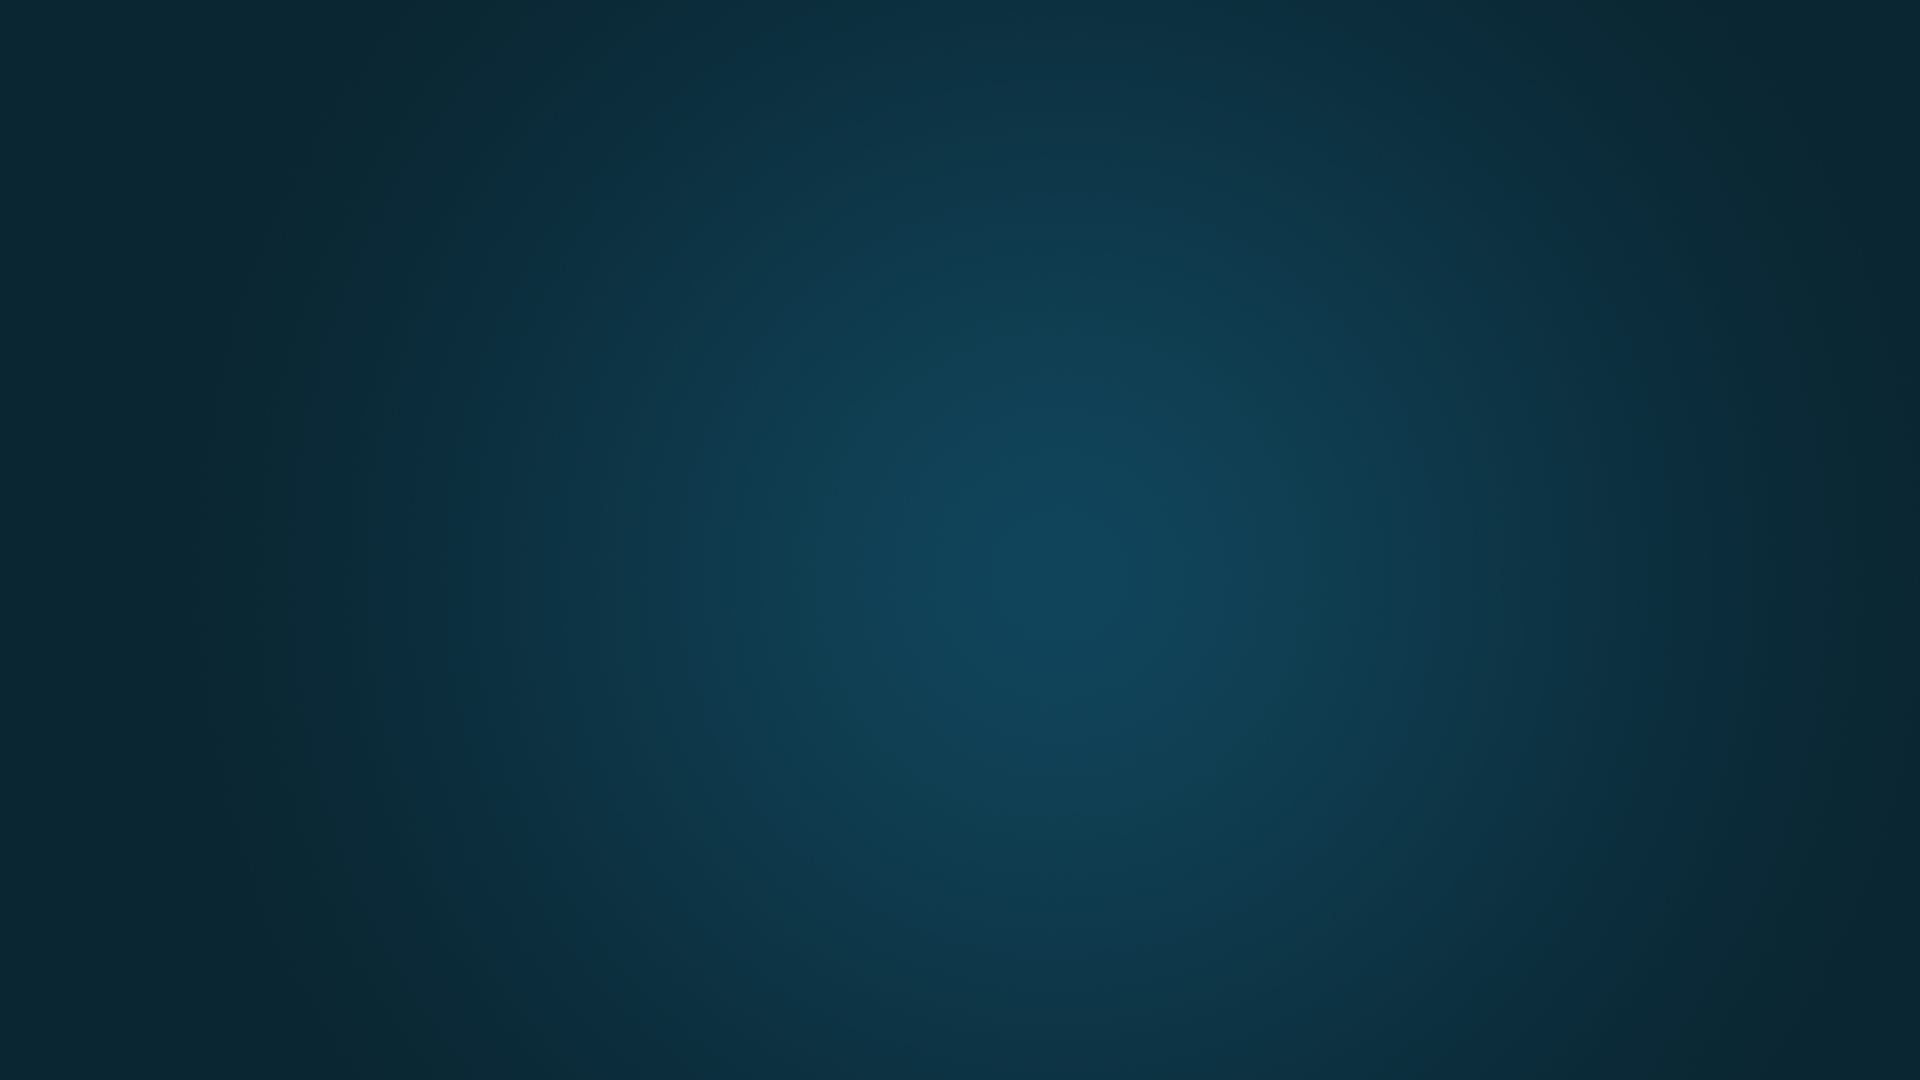
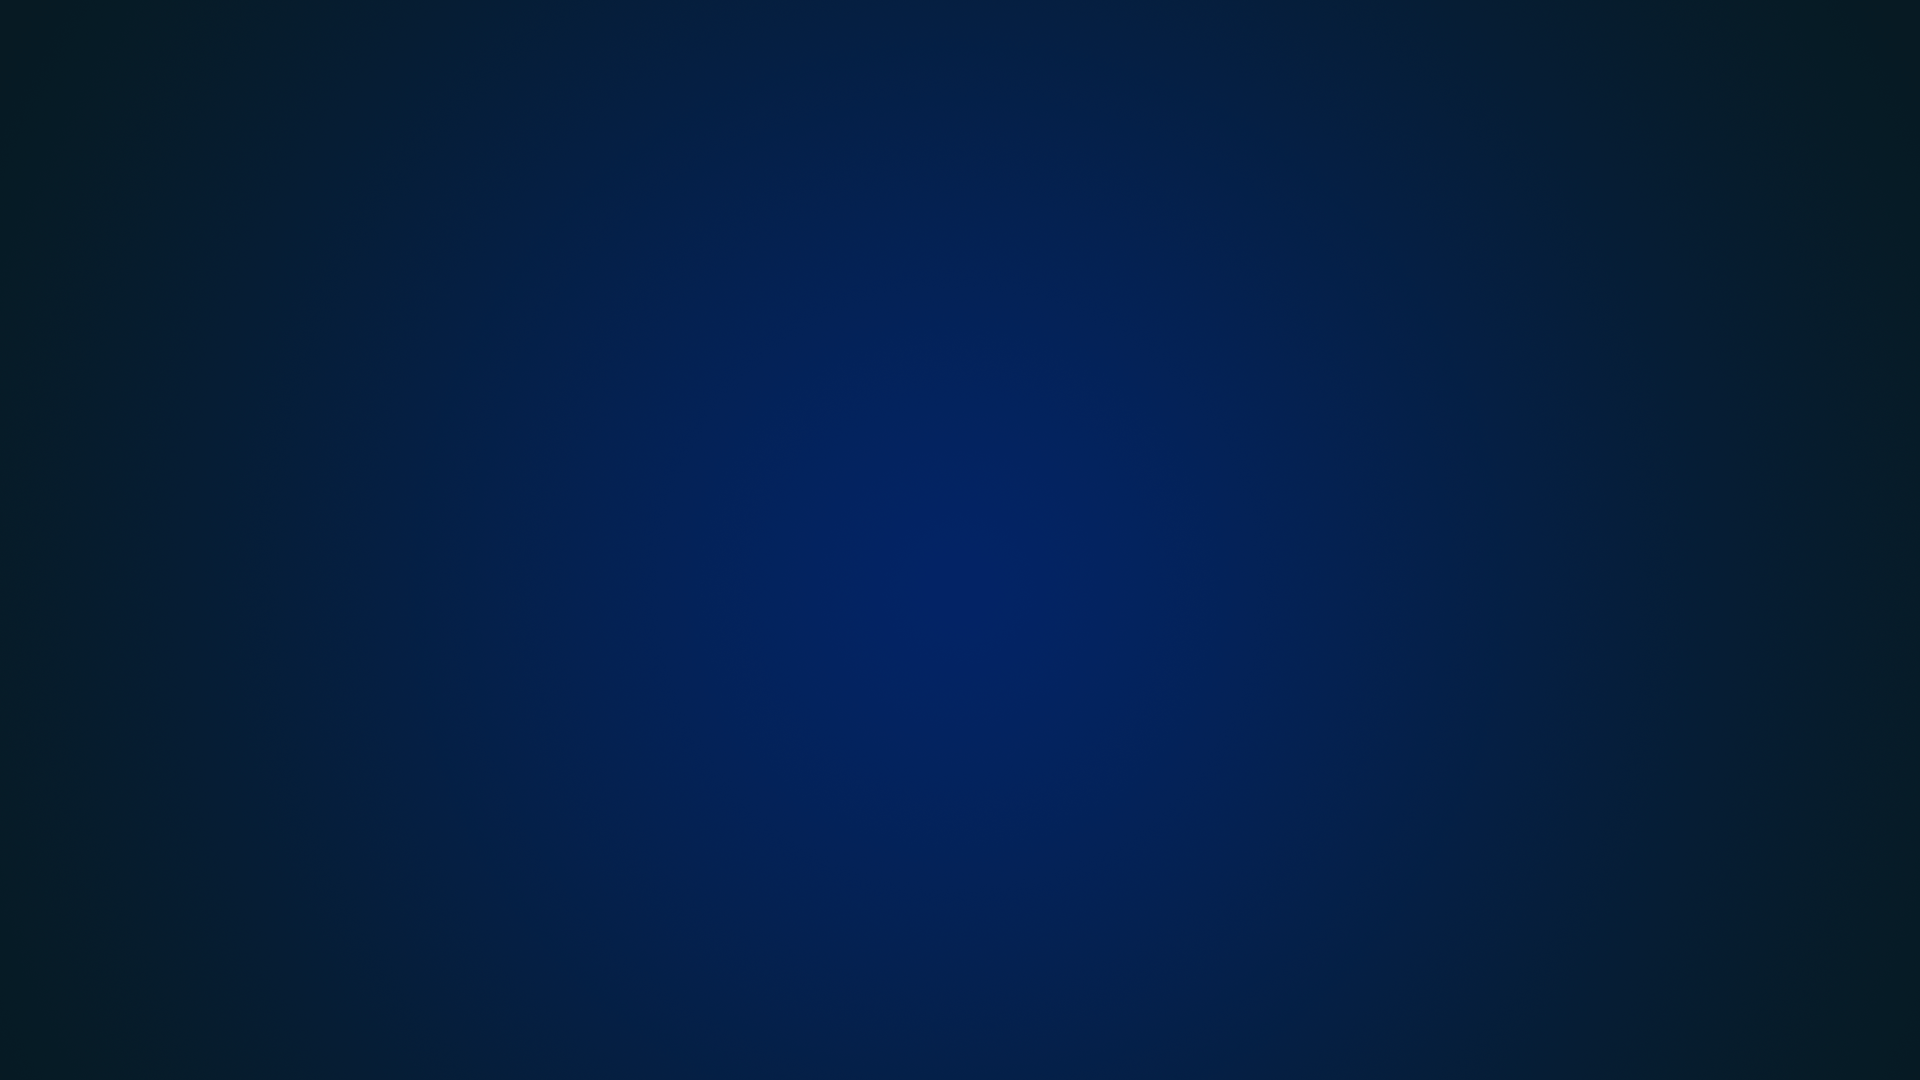
色変更

Changed region(s): [[0.375, 0.1833, 0.75, 0.8556]]

diff --git a/css/style.css b/css/style.css
@@ -14,8 +14,7 @@ body {
 
 nav {
   width: 100%;
-  background-color: #26d0c9;
-  color: #fff;
+  color: #E8AB15;
   overflow: hidden;
   position: fixed;
   text-align: center;
@@ -27,7 +26,10 @@ nav {
   border-radius: 90px;
   font-size: 30px;
   float:left;
-  padding: 20px 20px;
+  margin: 10px 10px;
+  border: 1px solid #B91C22;
+  margin-left: 30px;
+  background-color: #000;
 }
 
 .img {
@@ -36,25 +38,32 @@ nav {
   text-align: center;
 }
 
+nav ul {
+margin-right: 20px;
+}
+
 nav li {
-  margin-top: 10px;
-  padding: 20px 20px;
-  display: block;
+  margin-top: 15px;
+  margin-right: 10px;
   float: right;
   list-style-type: none;
   border-radius: 90px;
-  text-decoration: underline;
+  border: 1px solid #B91C22;
+  background-color: #000;
 }
 
 nav a {
+  margin: auto;
+  padding: 15px 15px;
   text-decoration: none;
-  color: #ffffff;
+  color: #B91C22;
   display: block;
   transition: 1s;
 }
 
 nav a:hover {
-  background: #ffffff;
+  border-radius: 90px;
+  background: #B91C22;
   color: #000000;
 }
 
@@ -65,24 +74,6 @@ nav a:hover {
   height: 100vh;
 }
 
-.vision {
-  text-align: center;
-  font-size: 200px;
-  color: #FFFFFF;
-  height: 50vh;
-  padding-top: 100px;
-  text-shadow: 2px 2px 1px #000, -2px 2px 1px #000, 2px -2px 1px #000, -2px -2px 1px #000;
-  animation: passing_7595 10s linear infinite;
-  transform-origin: 50% 50%;
-}
-
-
-@keyframes passing_7595 {
-  0% { transform:translateX(-50%); opacity:0 }
-  25% { transform:translateX(0%); opacity:1 }
-  50% { transform:translateX(50%); opacity:0 }
-  100% { transform:translateX(50%); opacity:0 }
-}
 
 .AmI {
   color:#FFF;
@@ -97,7 +88,7 @@ nav a:hover {
   text-align: center;
   font-size: 50px;
   margin-bottom: 20%;
-  text-shadow: 2px 2px 1px #00FFFF, -2px 2px 1px #00FFFF, 2px -2px 1px #00FFFF, -2px -2px 1px #00FFFF;
+  text-shadow: 2px 2px 1px #26d0c9, -2px 2px 1px #26d0c9, 2px -2px 1px #26d0c9, -2px -2px 1px #26d0c9;
 }
 
 .AmI li {
@@ -109,7 +100,7 @@ nav a:hover {
   left: 10%;
   right: auto;
   text-align: center;
-  background-color: #00FFFF;
+  background-color: #26d0c9;
   list-style-type: none;
 }
 
@@ -148,7 +139,12 @@ nav a:hover {
   padding-top: 7%;
   text-align: center;
   font-size: 50px;
-  text-shadow: 2px 2px 1px #FF0000, -2px 2px 1px #FF0000, 2px -2px 1px #FF0000, -2px -2px 1px #FF0000;
+  text-shadow: 2px 2px 1px #B91C22, -2px 2px 1px #B91C22, 2px -2px 1px #B91C22, -2px -2px 1px #B91C22;
+}
+
+.Web li:hover{
+  background-color:
+  text-shadow: 2px 2px 1px #B91C22, -2px 2px 1px #B91C22, 2px -2px 1px #B91C22, -2px -2px 1px #B91C22;
 }
 
 .float {
@@ -164,9 +160,10 @@ nav a:hover {
 }
 
 .Web a{
-  color: #FFF;
+  padding: 50px 50px;
+  color: #000;
   font-size: 20px;
-  text-shadow: 2px 2px 1px #FF0000, -2px 2px 1px #FF0000, 2px -2px 1px #FF0000, -2px -2px 1px #FF0000;
+  text-shadow: 2px 2px 1px #B91C22, -2px 2px 1px #B91C22, 2px -2px 1px #B91C22, -2px -2px 1px #B91C22;
 }
 
 .Web li {
@@ -180,7 +177,14 @@ nav a:hover {
   border-radius: 90px;
   border-color: #000;
   float: left;
+  border: 2px solid #000;
+}
+
+.Web li:hover{
+  border-radius: 90px;
+  background: #B91C22;
   color: #000;
+  opacity: 0.5;
 }
 
 .Youtube {
@@ -220,6 +224,7 @@ nav a:hover {
 .Contact p{
   text-align: center;
   font-size: 50px;
+  text-shadow: 2px 2px 1px #26d0c9, -2px 2px 1px #26d0c9, 2px -2px 1px #26d0c9, -2px -2px 1px #26d0c9;
 }
 
 .Contact li {
@@ -231,13 +236,21 @@ nav a:hover {
   height: 200px;
   color: #00FFFF;
   background-color: #000;
-  border: 1px solid #FFF;
+  border: 1px solid #26d0c9;
   font-size: 100px;
+}
+
+.Contact li:hover{
+  background-color: #26d0c9;
 }
 
 .Contact i {
   padding-top: 20%;
   color: #00FFFF;
+}
+
+.Contact i:hover{
+  color: #000;
 }
 
 
@@ -248,5 +261,4 @@ footer {
   line-height: 10px;
   color: #000;
   height: 10px;
-  font-family: 'Open Sans Condensed', sans-serif;
 }

diff --git a/index.html b/index.html
@@ -6,6 +6,7 @@
   <link rel = "shortcut icon" href="img/logo.ico">
   <link rel = "stylesheet" href = "css/style.css">
   <link rel = "stylesheet" href="css/font-awesome.min.css" >
+  <script src="js/jquery-3.2.1.min.js"></script>
   <title>A Sad Sexy Imp</title>
 </head>
 
@@ -13,23 +14,20 @@
   <nav class = "header">
     <div class = "header-logo"><a href="#top" class = "topbtn"> A Sad Sexy Imp </a></div>
     <ul>
-      <li><a href = "#日本語" >日本語</a></li>
-      <li><a href = "#Contact" class = "contactbtn"><i class="fa fa-envelope-o" aria-hidden="true">Contact</i></a></li>
-      <li><a href = "#Web" class = "webbtn"><i class="fa fa-snowflake-o" aria-hidden="true">Web</i></a></li>
-      <li><a href = "#AmI" class = "amibtn"><i class="fa fa-address-card" aria-hidden="true">Am I?</i></a></li>
+      <li><a href = "#Contact" class = "contactbtn">Contact</a></li>
+      <li><a href = "#Web" class = "webbtn">Web</a></li>
+      <li><a href = "#AmI" class = "amibtn">Am I?</a></li>
     </ul>
   </nav>
 
-  <div class = "top">
-    <p class = "vision">CREATE ADVENTURE</p>
-  </div>
+  <div class = "top"></div>
 
   <div class =  "AmI" id = "AmI">
     <p>Your Friendly Neighborhood</p>
-    <ul>
-      <li class = "shake">CAREER</li>
-      <li class = "shake">SKILL</li>
-      <li class = "shake">MIND</li>
+    <ul id="identity">
+      <li class = "shake" data-text="ツールチップ1">CAREER</li>
+      <li class = "shake" data-text="ツールチップ1">SKILL</li>
+      <li class = "shake" data-text="ツールチップ1">MIND</li>
     </ul>
   </div>
 
